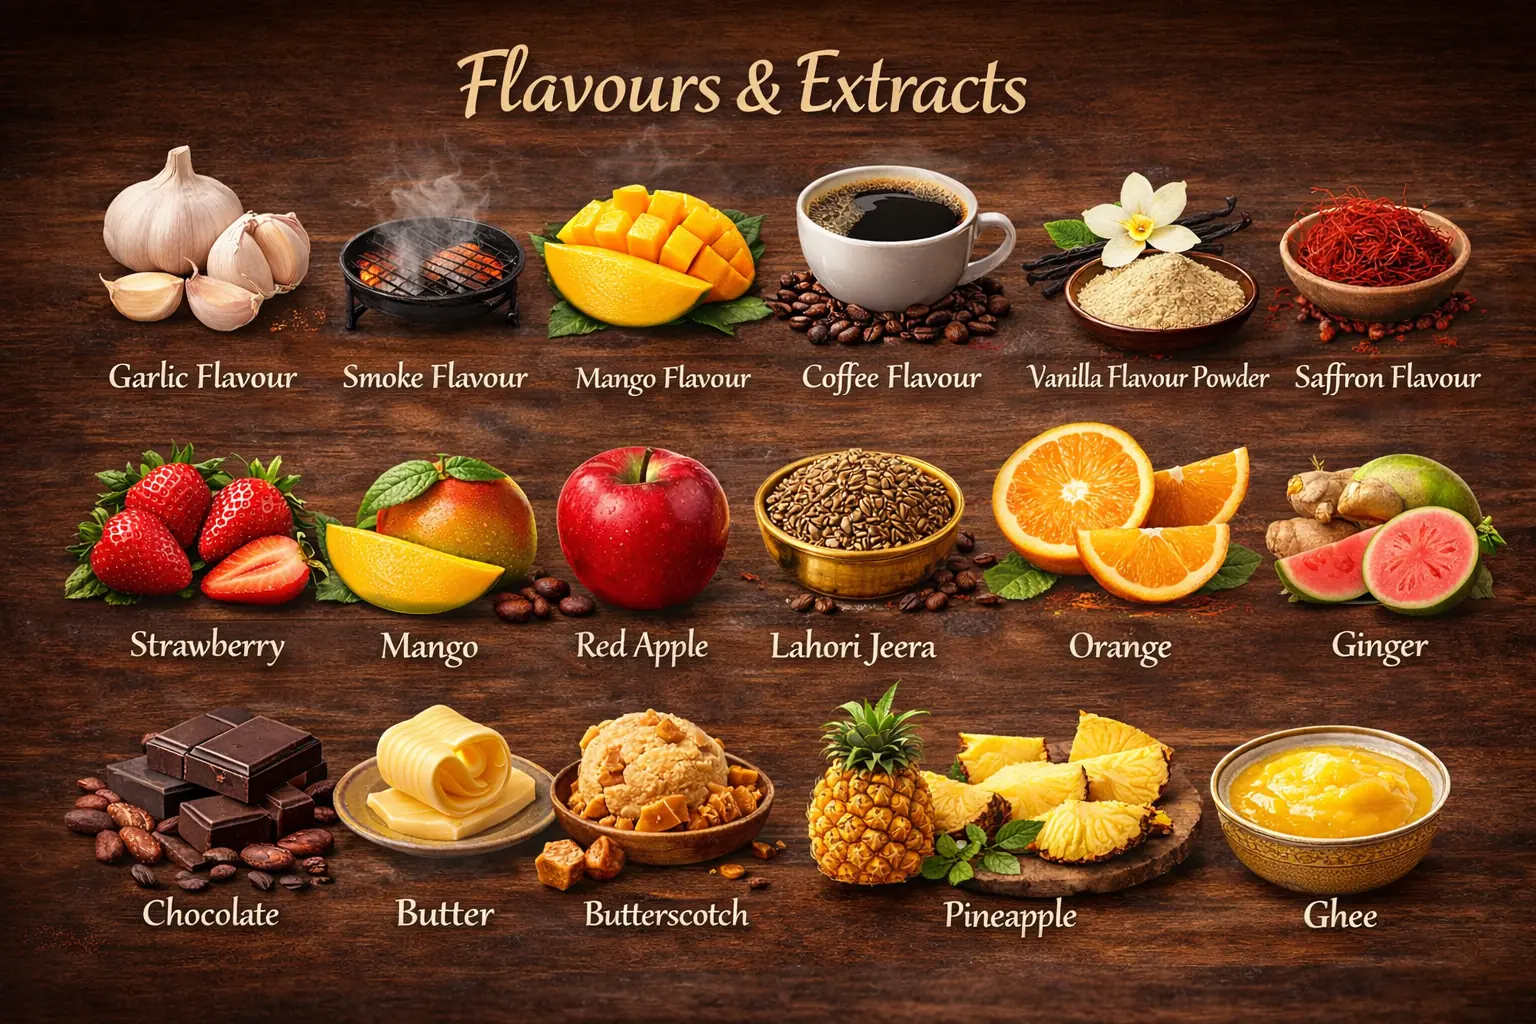
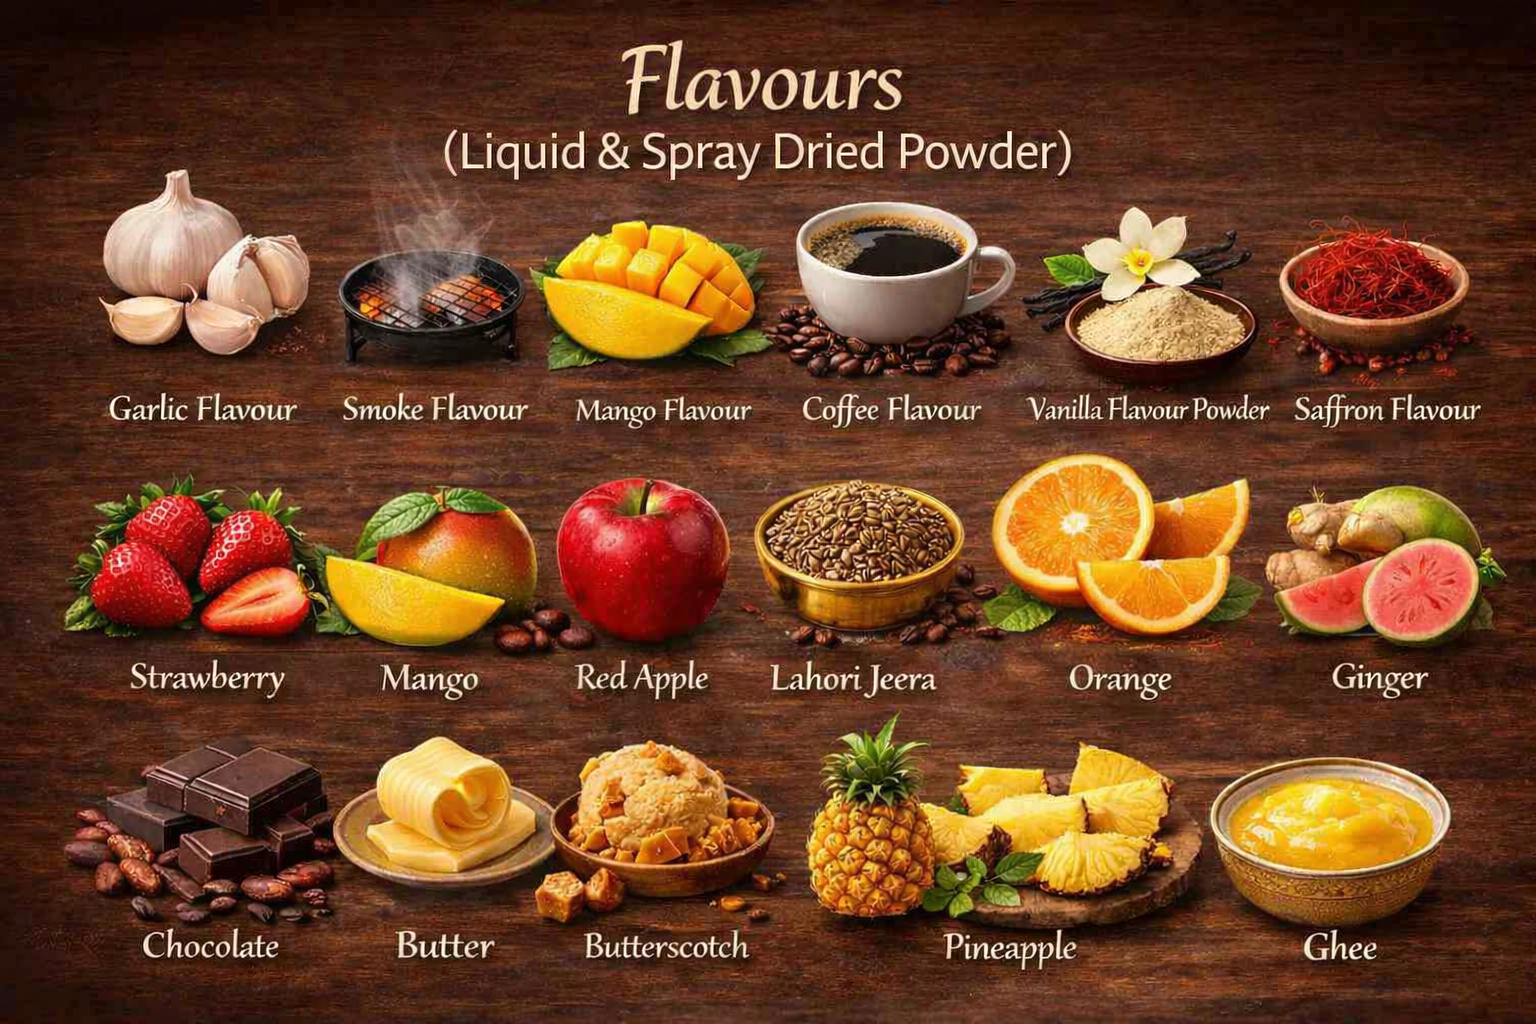
Admin Email added

diff --git a/src/app/components/products/products.component.scss b/src/app/components/products/products.component.scss
@@ -282,29 +282,65 @@ $text-muted:    #8a7060;
     gap: 0.6rem;
 
     .tab-btn {
-      padding: 0.5rem 1.2rem;
+      display: flex;
+      flex-direction: column;
+      align-items: center;
+      justify-content: center;
+      padding: 0.8rem 1.4rem;
+      min-width: 10rem;
       border-radius: 50px;
       border: 1px solid rgba($white, 0.3);
-      background: rgba($white, 0.1);
-      color: rgba($white, 0.85);
-      font-size: 0.85rem;
+      // background: linear-gradient(180deg, rgba($white, 0.72) 0%, rgba($white, 0.25) 50%, rgba($white, 0.12) 100%);
+          background: linear-gradient(180deg, var(--bs-gray-700) 0%, #343a40 50%, var(--bs-border-color-translucent) 100%);
+      color: rgba($white, 0.95);
       font-family: 'DM Sans', sans-serif;
       font-weight: 500;
       cursor: pointer;
       transition: all 0.25s ease;
-      backdrop-filter: blur(6px);
+      backdrop-filter: blur(12px);
+      gap: 0.2rem;
+      text-align: center;
+      box-shadow: 0 10px 30px rgba($brand-brown, 0.08), inset 0 1px 0 rgba($white, 0.65);
+      position: relative;
+      overflow: hidden;
+
+      &::before {
+        content: '';
+        position: absolute;
+        inset: 0;
+        background: radial-gradient(circle at top left, rgba($white, 0.7), transparent 35%);
+        opacity: 0.35;
+        pointer-events: none;
+      }
+
+      .tab-name {
+        font-size: 0.95rem;
+        line-height: 1.2;
+        z-index: 1;
+      }
+
+      .tab-explore {
+        font-size: 0.75rem;
+        letter-spacing: 0.04em;
+        opacity: 0.75;
+        z-index: 1;
+      }
 
       &:hover {
-        background: rgba($white, 0.25);
-        color: $white;
+        background: linear-gradient(180deg, rgba($white, 0.8) 0%, rgba($white, 0.3) 50%, rgba($white, 0.16) 100%);
+        color: $brand-brown;
         transform: translateY(-2px);
       }
 
       &.active {
-        background: $white;
+        background: rgba($white, 0.98);
         color: $brand-brown;
-        border-color: $white;
+        border-color: rgba($white, 0.95);
         font-weight: 600;
+
+        .tab-explore {
+          opacity: 1;
+        }
       }
     }
   }
@@ -336,6 +372,11 @@ $text-muted:    #8a7060;
   // ══════════════════════════════════════════════════════
   // LANDING CARD
   // ══════════════════════════════════════════════════════
+  #subitem-landing-section,
+  #products-grid-section {
+    scroll-margin-top: 96px;
+  }
+
   .landing-section {
      max-width: 1100px;
     margin-left: auto;   // pushes content right

diff --git a/src/app/components/products/products.component.ts b/src/app/components/products/products.component.ts
@@ -1748,6 +1748,9 @@ export class ProductsComponent implements OnInit, OnDestroy {
       this.selectedGroupSubItem = '';
       this.showSubItemList = false;
     }
+
+    this.cdr.markForCheck();
+    this.scrollToProductDetails();
   }
 
   selectSubItem(subItem: string) {
@@ -1765,30 +1768,47 @@ export class ProductsComponent implements OnInit, OnDestroy {
     this.showSubItemList = true;
     this.selectedProduct = null;
     this.cdr.markForCheck();
-    this.scrollToProductsGrid();
+    this.scrollToSubitemLandingSection();
 
     // No assignment to selectedGroupSubItemObject; it's a getter
   }
 
-  scrollToProductsGrid() {
-    setTimeout(() => {
-      const target =
-        document.getElementById('subitem-landing-section') ||
-        document.getElementById('products-grid-section');
+  private scrollToElementById(elementId: string, maxAttempts = 60) {
+    let attempts = 0;
 
+    const scrollToTarget = () => {
+      const target = document.getElementById(elementId);
       if (target) {
-        const offset = 80; // adjust based on your navbar height
-        const y =
-          target.getBoundingClientRect().top +
-          window.pageYOffset -
-          offset;
+        const header = document.querySelector('header.navbar');
+        const offset = header ? header.getBoundingClientRect().height + 16 : 88;
+        const top = target.getBoundingClientRect().top + window.scrollY - offset;
 
         window.scrollTo({
-          top: y,
+          top: Math.max(0, top),
           behavior: 'smooth'
         });
+        return;
       }
-    }, 50);
+
+      attempts += 1;
+      if (attempts < maxAttempts) {
+        window.requestAnimationFrame(scrollToTarget);
+      }
+    };
+
+    window.requestAnimationFrame(() => window.requestAnimationFrame(scrollToTarget));
+  }
+
+  scrollToProductsGrid() {
+    this.scrollToElementById('products-grid-section');
+  }
+
+  scrollToSubitemLandingSection() {
+    this.scrollToElementById('subitem-landing-section');
+  }
+
+  scrollToProductDetails() {
+    this.scrollToElementById('product-detail-view');
   }
 
   goHome() {

diff --git a/src/app/components/home/home.component.ts b/src/app/components/home/home.component.ts
@@ -22,7 +22,7 @@ interface ProductCategory {
 export class HomeComponent implements OnInit {
   productCategories: ProductCategory[] = [
     { title: 'Seasonings', description: 'Fiery, Smoky & Savory Classics', image: 'assets/images/optimized/main_seasoning.webp', queryGroup: 'Seasoning' },
-    { title: 'Flavours & Extracts', description: 'Premium Flavours & Natural Extracts', image: 'assets/images/optimized/Main_Flavours_Extracts.webp', queryGroup: 'Flavours & Extracts' },
+    { title: 'Flavours (Liquid & Spray Dried Powder)', description: 'Premium Flavours & Natural Extracts', image: 'assets/images/optimized/Main_Flavours_Extracts.webp', queryGroup: 'Flavours (Liquid & Spray Dried Powder)' },
     { title: 'Dried Fruit & Vegetable Flakes', description: 'Natural Dried Ingredients', image: 'assets/images/optimized/DriedFruit_Vegetable_Flakes.webp', queryGroup: 'Dried Fruit & Vegetable Flakes' },
     { title: 'Fruit & Vegetable Powders', description: 'Pure & Natural Powdered Ingredients', image: 'assets/images/optimized/fruit_vegatable_powder.webp', queryGroup: 'Fruit & Vegetable Powders' },
     { title: 'Tea,Coffee & Milk Premixes', description: 'Instant Premixes for Every Sip', image: 'assets/images/optimized/Tea_coffee_milk_premix.webp', queryGroup: 'Tea,Coffee & Milk Premixes' },

diff --git a/src/app/components/products/products.component.html b/src/app/components/products/products.component.html
@@ -52,7 +52,7 @@
     </div>
 
     <!-- Category Hero Banner -->
-    <div class="category-banner" [ngClass]="categoryHeroClass">
+    <div id="product-detail-view" class="category-banner" [ngClass]="categoryHeroClass">
       <div class="category-banner-overlay"></div>
       <div class="category-banner-inner container">
         <div class="category-banner-text">
@@ -71,7 +71,8 @@
             [class.active]="(selectedCategory ? selectedSubItem : selectedGroupSubItem) === subItem"
             (click)="selectSubItem(subItem)"
           >
-            {{ subItem }}
+            <span class="tab-name">{{ subItem }}</span>
+            <span class="tab-explore">Explore →</span>
           </button>
         </div>
       </div>
